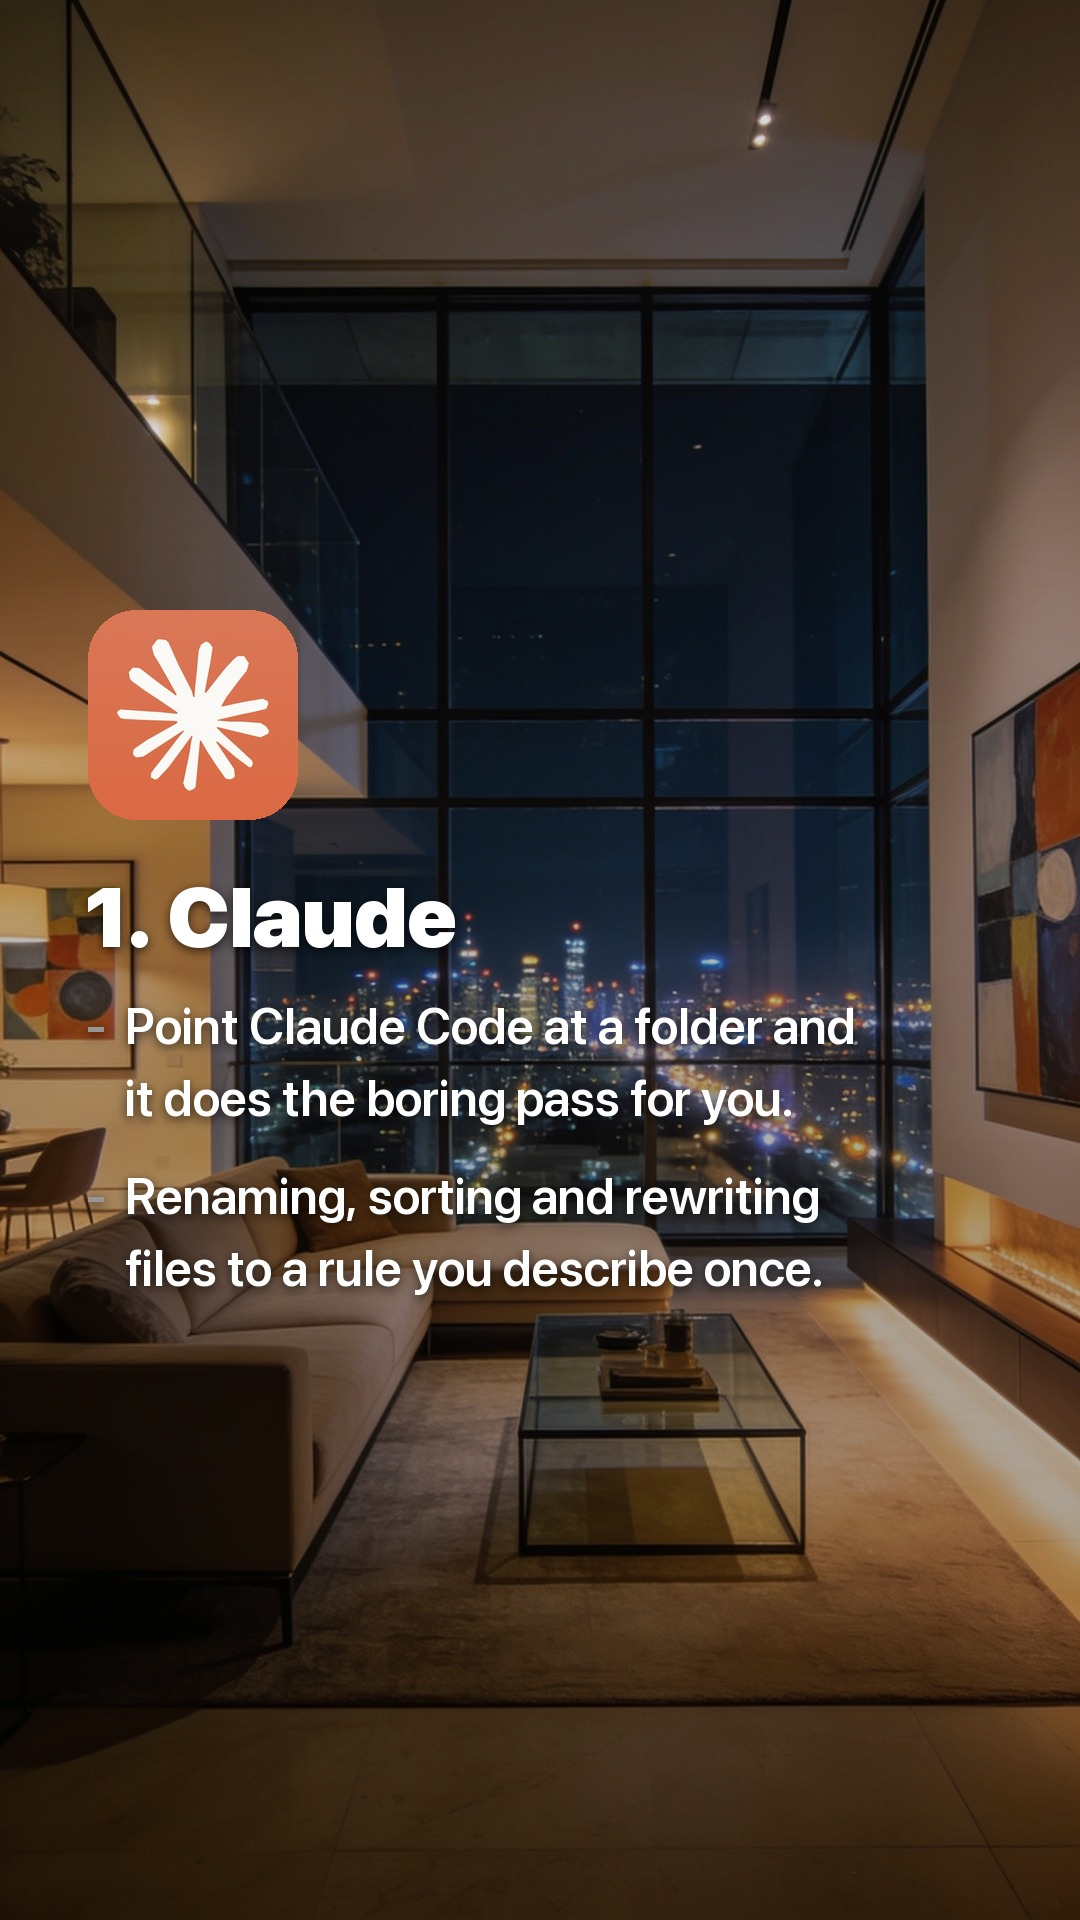
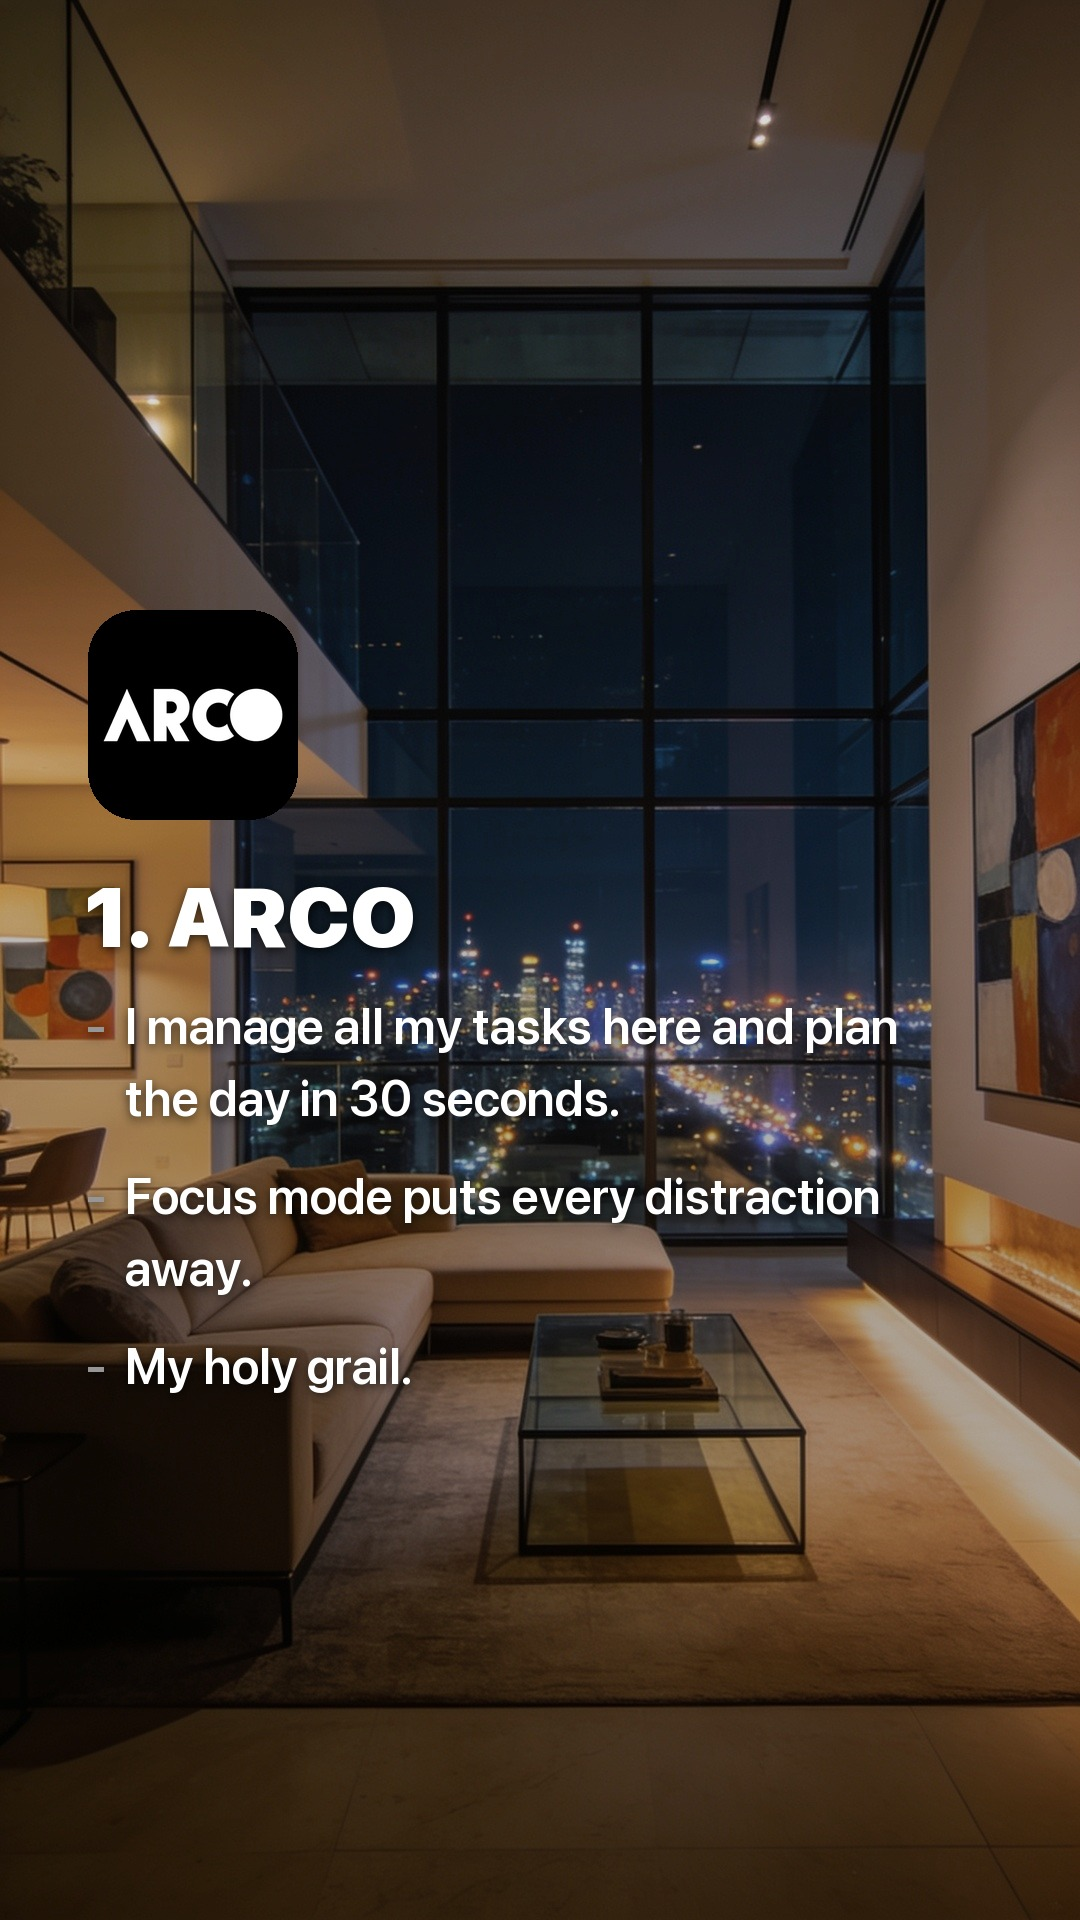
ten-x: ARCO leads the post
The hook is a productivity claim and the app is the thing making it true,
so it takes slide 1 rather than the credibility slot behind a famous name.
Claude moves to 2, the rest unchanged.

Backgrounds reused from the previous build, which was already reviewed and
never delivered.

Claude-Session: https://claude.ai/code/session_018WcmYQJRQqBfrRpJzu76Jc

Changed region(s): [[0.1222, 0.4375, 0.825, 0.75], [0.0611, 0.3125, 0.275, 0.4375]]

diff --git a/tools/gen-ten-x.py b/tools/gen-ten-x.py
@@ -10,7 +10,10 @@ TOPIC = 'ten-x'
 OUT = f'/Users/thinh/SIXSIX/arco-app/drafts/{TOPIC}'
 os.makedirs(OUT, exist_ok=True)
 
-TOOLS = ['Claude', 'ARCO', 'Raycast', 'Notion', 'Zapier']
+# ARCO leads this one: the hook is a productivity claim and the app is the
+# thing making the claim true, so it earns slide 1 rather than the credibility
+# slot behind a famous name.
+TOOLS = ['ARCO', 'Claude', 'Raycast', 'Notion', 'Zapier']
 
 def pick_bgs(topic, n=5):
     recent = [e for e in c.bg_history() if e['topic'] != topic][-c.BG_COOLDOWN:]
@@ -37,20 +40,20 @@ def pick_bgs(topic, n=5):
         out.append(b); last = c.VIBES[b]
     return [hook] + out
 
-BGS = pick_bgs(TOPIC)
+BGS = ['bg-h21.jpg','bg-h20.jpg','bg-h36.jpg','bg-h49.jpg','bg-h39.jpg','bg-n06.jpg']
 preflight(TOPIC, TOOLS, BGS)
 
 hook_slide(BGS[0], ['how i 10x’d', 'my productivity'], f'{OUT}/01.jpg')
 
-app_slide(BGS[1], 'icon-claude.jpg', '1. Claude', [
+app_slide(BGS[1], 'icon-arco.png', '1. ARCO', next_arco_angle(), f'{OUT}/02.jpg')
+
+app_slide(BGS[2], 'icon-claude.jpg', '2. Claude', [
     'Point Claude Code at a folder and',
     'it does the boring pass for you.',
     '',
     'Renaming, sorting and rewriting',
     'files to a rule you describe once.',
-], f'{OUT}/02.jpg')
-
-app_slide(BGS[2], 'icon-arco.png', '2. ARCO', next_arco_angle(), f'{OUT}/03.jpg')
+], f'{OUT}/03.jpg')
 
 app_slide(BGS[3], 'icon-raycast.png', '3. Raycast', [
     'A Quicklink turns a site’s search',
